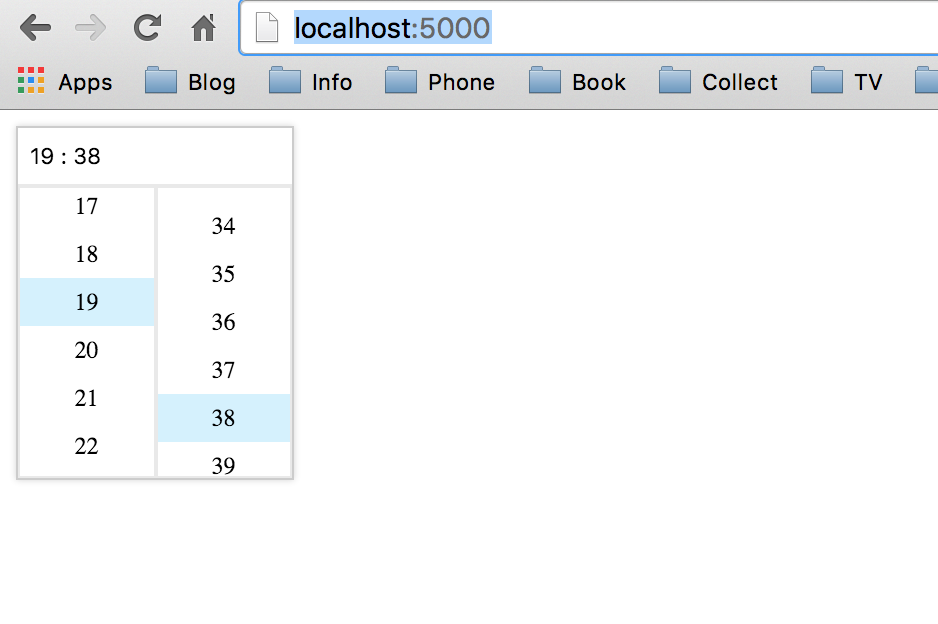
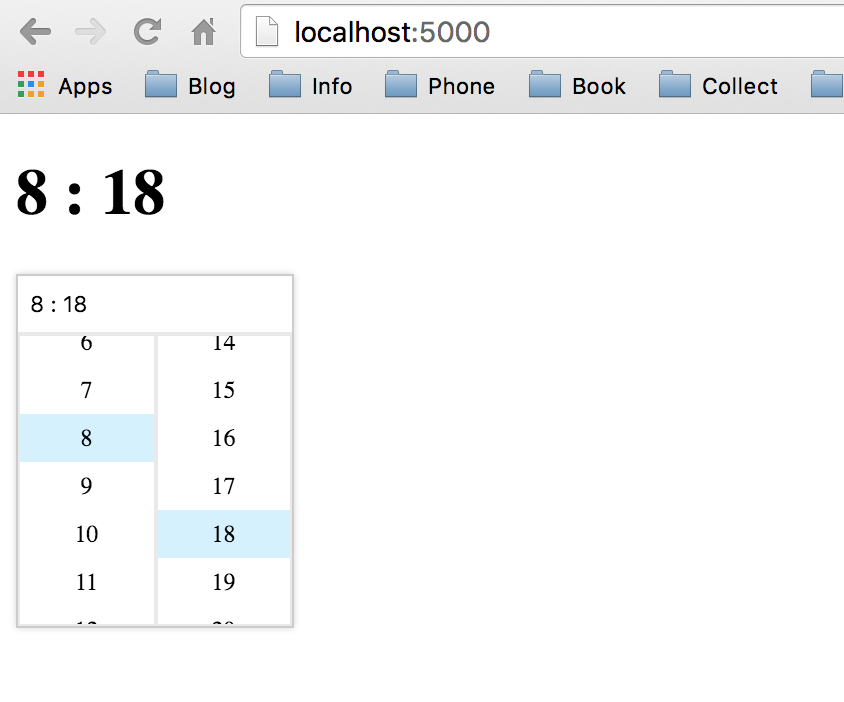
add export value

diff --git a/dist/vue-timepicker.js b/dist/vue-timepicker.js
@@ -1,1 +1,1 @@
-!function(e,t){if("object"==typeof exports&&"object"==typeof module)module.exports=t();else if("function"==typeof define&&define.amd)define([],t);else{var i=t();for(var n in i)("object"==typeof exports?exports:e)[n]=i[n]}}(this,function(){return function(e){function t(n){if(i[n])return i[n].exports;var r=i[n]={exports:{},id:n,loaded:!1};return e[n].call(r.exports,r,r.exports,t),r.loaded=!0,r.exports}var i={};return t.m=e,t.c=i,t.p="",t(0)}([function(e,t,i){var n,r;i(5),n=i(1),r=i(6),e.exports=n||{},e.exports.__esModule&&(e.exports=e.exports["default"]),r&&(("function"==typeof e.exports?e.exports.options||(e.exports.options={}):e.exports).template=r)},function(e,t){"use strict";Object.defineProperty(t,"__esModule",{value:!0}),t["default"]={data:function(){return{isActive:!1,time:"",hour:"",minute:"",hourData:[],minuteData:[]}},methods:{},computed:{time:function(){return this.hour||this.minute?this.hour+" : "+this.minute:""}},created:function(){for(var e=this,t=[],i=[],n=1;24>=n;n++)t.push(n);for(var r=1;60>=r;r++)i.push(r);this.hourData=t,this.minuteData=i,document.addEventListener("click",function(){e.isActive=!1})}}},function(e,t,i){t=e.exports=i(3)(),t.push([e.id,".vue-time-picker-panel[_v-98eb7a12]{display:inline-block}.vue-time-picker-panel-inner[_v-98eb7a12]{position:relative;outline:none;border:1px solid #ccc;font-size:12px;text-align:left;background-color:#fff;box-shadow:0 0 4px rgba(0,0,0,.17)}.vue-time-picker-panel-input-wrap[_v-98eb7a12]{position:relative;padding:6px;border-bottom:1px solid #e9e9e9}.vue-time-picker-panel-input-wrap input[_v-98eb7a12]{outline:none;border:0;margin:0;padding:0;line-height:1.5;width:100%}.vue-time-picker-panel-combobox[_v-98eb7a12]{display:-webkit-box;display:-webkit-flex;display:-ms-flexbox;display:flex}.vue-time-picker-panel-select[_v-98eb7a12]{position:relative;font-size:12px;border:1px solid #e9e9e9;-webkit-box-flex:1;-webkit-flex:1;-ms-flex:1;flex:1;overflow:hidden}.vue-time-picker-panel-select[_v-98eb7a12]:hover{overflow-y:auto}.vue-time-picker-panel-select ul[_v-98eb7a12]{list-style:none;max-height:144px;margin:0;padding:0;box-sizing:border-box}.vue-time-picker-panel-select li[_v-98eb7a12]{margin:0;padding:0;height:24px;line-height:24px;text-align:center;cursor:pointer}.vue-time-picker-panel-select li.selected[_v-98eb7a12]{background-color:#d5f1fd}.vue-time-picker-panel-select li[_v-98eb7a12]:hover{background-color:#eaf8fe}",""])},function(e,t){e.exports=function(){var e=[];return e.toString=function(){for(var e=[],t=0;t<this.length;t++){var i=this[t];i[2]?e.push("@media "+i[2]+"{"+i[1]+"}"):e.push(i[1])}return e.join("")},e.i=function(t,i){"string"==typeof t&&(t=[[null,t,""]]);for(var n={},r=0;r<this.length;r++){var o=this[r][0];"number"==typeof o&&(n[o]=!0)}for(r=0;r<t.length;r++){var a=t[r];"number"==typeof a[0]&&n[a[0]]||(i&&!a[2]?a[2]=i:i&&(a[2]="("+a[2]+") and ("+i+")"),e.push(a))}},e}},function(e,t,i){function n(e,t){for(var i=0;i<e.length;i++){var n=e[i],r=d[n.id];if(r){r.refs++;for(var o=0;o<r.parts.length;o++)r.parts[o](n.parts[o]);for(;o<n.parts.length;o++)r.parts.push(p(n.parts[o],t))}else{for(var a=[],o=0;o<n.parts.length;o++)a.push(p(n.parts[o],t));d[n.id]={id:n.id,refs:1,parts:a}}}}function r(e){for(var t=[],i={},n=0;n<e.length;n++){var r=e[n],o=r[0],a=r[1],s=r[2],l=r[3],p={css:a,media:s,sourceMap:l};i[o]?i[o].parts.push(p):t.push(i[o]={id:o,parts:[p]})}return t}function o(e,t){var i=m(),n=g[g.length-1];if("top"===e.insertAt)n?n.nextSibling?i.insertBefore(t,n.nextSibling):i.appendChild(t):i.insertBefore(t,i.firstChild),g.push(t);else{if("bottom"!==e.insertAt)throw new Error("Invalid value for parameter 'insertAt'. Must be 'top' or 'bottom'.");i.appendChild(t)}}function a(e){e.parentNode.removeChild(e);var t=g.indexOf(e);t>=0&&g.splice(t,1)}function s(e){var t=document.createElement("style");return t.type="text/css",o(e,t),t}function l(e){var t=document.createElement("link");return t.rel="stylesheet",o(e,t),t}function p(e,t){var i,n,r;if(t.singleton){var o=x++;i=b||(b=s(t)),n=u.bind(null,i,o,!1),r=u.bind(null,i,o,!0)}else e.sourceMap&&"function"==typeof URL&&"function"==typeof URL.createObjectURL&&"function"==typeof URL.revokeObjectURL&&"function"==typeof Blob&&"function"==typeof btoa?(i=l(t),n=f.bind(null,i),r=function(){a(i),i.href&&URL.revokeObjectURL(i.href)}):(i=s(t),n=c.bind(null,i),r=function(){a(i)});return n(e),function(t){if(t){if(t.css===e.css&&t.media===e.media&&t.sourceMap===e.sourceMap)return;n(e=t)}else r()}}function u(e,t,i,n){var r=i?"":n.css;if(e.styleSheet)e.styleSheet.cssText=k(t,r);else{var o=document.createTextNode(r),a=e.childNodes;a[t]&&e.removeChild(a[t]),a.length?e.insertBefore(o,a[t]):e.appendChild(o)}}function c(e,t){var i=t.css,n=t.media;if(n&&e.setAttribute("media",n),e.styleSheet)e.styleSheet.cssText=i;else{for(;e.firstChild;)e.removeChild(e.firstChild);e.appendChild(document.createTextNode(i))}}function f(e,t){var i=t.css,n=t.sourceMap;n&&(i+="\n/*# sourceMappingURL=data:application/json;base64,"+btoa(unescape(encodeURIComponent(JSON.stringify(n))))+" */");var r=new Blob([i],{type:"text/css"}),o=e.href;e.href=URL.createObjectURL(r),o&&URL.revokeObjectURL(o)}var d={},v=function(e){var t;return function(){return"undefined"==typeof t&&(t=e.apply(this,arguments)),t}},h=v(function(){return/msie [6-9]\b/.test(window.navigator.userAgent.toLowerCase())}),m=v(function(){return document.head||document.getElementsByTagName("head")[0]}),b=null,x=0,g=[];e.exports=function(e,t){t=t||{},"undefined"==typeof t.singleton&&(t.singleton=h()),"undefined"==typeof t.insertAt&&(t.insertAt="bottom");var i=r(e);return n(i,t),function(e){for(var o=[],a=0;a<i.length;a++){var s=i[a],l=d[s.id];l.refs--,o.push(l)}if(e){var p=r(e);n(p,t)}for(var a=0;a<o.length;a++){var l=o[a];if(0===l.refs){for(var u=0;u<l.parts.length;u++)l.parts[u]();delete d[l.id]}}}};var k=function(){var e=[];return function(t,i){return e[t]=i,e.filter(Boolean).join("\n")}}()},function(e,t,i){var n=i(2);"string"==typeof n&&(n=[[e.id,n,""]]);i(4)(n,{});n.locals&&(e.exports=n.locals)},function(e,t){e.exports='<div @click.stop=@click.stop class=vue-time-picker-panel _v-98eb7a12=""><div class=vue-time-picker-panel-inner _v-98eb7a12=""><div @click="isActive = !isActive" class=vue-time-picker-panel-input-wrap _v-98eb7a12=""><input v-model=time class=vue-time-picker-panel-input _v-98eb7a12=""></div><div v-show=isActive class=vue-time-picker-panel-combobox _v-98eb7a12=""><div class=vue-time-picker-panel-select _v-98eb7a12=""><ul _v-98eb7a12=""><li v-for="item in hourData" @click="hour = item" :class="{\'selected\': item === hour}" v-text=item _v-98eb7a12=""></li></ul></div><div class=vue-time-picker-panel-select _v-98eb7a12=""><ul _v-98eb7a12=""><li v-for="item in minuteData" @click="minute = item" :class="{\'selected\': item === minute}" v-text=item _v-98eb7a12=""></li></ul></div></div></div></div>'}])});
+!function(e,t){if("object"==typeof exports&&"object"==typeof module)module.exports=t();else if("function"==typeof define&&define.amd)define([],t);else{var i=t();for(var n in i)("object"==typeof exports?exports:e)[n]=i[n]}}(this,function(){return function(e){function t(n){if(i[n])return i[n].exports;var r=i[n]={exports:{},id:n,loaded:!1};return e[n].call(r.exports,r,r.exports,t),r.loaded=!0,r.exports}var i={};return t.m=e,t.c=i,t.p="",t(0)}([function(e,t,i){var n,r;i(1),n=i(5),r=i(6),e.exports=n||{},e.exports.__esModule&&(e.exports=e.exports["default"]),r&&(("function"==typeof e.exports?e.exports.options||(e.exports.options={}):e.exports).template=r)},function(e,t,i){var n=i(2);"string"==typeof n&&(n=[[e.id,n,""]]);i(4)(n,{});n.locals&&(e.exports=n.locals)},function(e,t,i){t=e.exports=i(3)(),t.push([e.id,".vue-time-picker-panel[_v-98eb7a12]{display:inline-block}.vue-time-picker-panel-inner[_v-98eb7a12]{position:relative;outline:none;border:1px solid #ccc;font-size:12px;text-align:left;background-color:#fff;box-shadow:0 0 4px rgba(0,0,0,.17)}.vue-time-picker-panel-input-wrap[_v-98eb7a12]{position:relative;padding:6px;border-bottom:1px solid #e9e9e9}.vue-time-picker-panel-input-wrap input[_v-98eb7a12]{outline:none;border:0;margin:0;padding:0;line-height:1.5;width:100%}.vue-time-picker-panel-combobox[_v-98eb7a12]{display:-webkit-box;display:-webkit-flex;display:-ms-flexbox;display:flex}.vue-time-picker-panel-select[_v-98eb7a12]{position:relative;font-size:12px;border:1px solid #e9e9e9;-webkit-box-flex:1;-webkit-flex:1;-ms-flex:1;flex:1;overflow:hidden}.vue-time-picker-panel-select[_v-98eb7a12]:hover{overflow-y:auto}.vue-time-picker-panel-select ul[_v-98eb7a12]{list-style:none;max-height:144px;margin:0;padding:0;box-sizing:border-box}.vue-time-picker-panel-select li[_v-98eb7a12]{margin:0;padding:0;height:24px;line-height:24px;text-align:center;cursor:pointer}.vue-time-picker-panel-select li.selected[_v-98eb7a12]{background-color:#d5f1fd}.vue-time-picker-panel-select li[_v-98eb7a12]:hover{background-color:#eaf8fe}",""])},function(e,t){e.exports=function(){var e=[];return e.toString=function(){for(var e=[],t=0;t<this.length;t++){var i=this[t];i[2]?e.push("@media "+i[2]+"{"+i[1]+"}"):e.push(i[1])}return e.join("")},e.i=function(t,i){"string"==typeof t&&(t=[[null,t,""]]);for(var n={},r=0;r<this.length;r++){var o=this[r][0];"number"==typeof o&&(n[o]=!0)}for(r=0;r<t.length;r++){var a=t[r];"number"==typeof a[0]&&n[a[0]]||(i&&!a[2]?a[2]=i:i&&(a[2]="("+a[2]+") and ("+i+")"),e.push(a))}},e}},function(e,t,i){function n(e,t){for(var i=0;i<e.length;i++){var n=e[i],r=d[n.id];if(r){r.refs++;for(var o=0;o<r.parts.length;o++)r.parts[o](n.parts[o]);for(;o<n.parts.length;o++)r.parts.push(u(n.parts[o],t))}else{for(var a=[],o=0;o<n.parts.length;o++)a.push(u(n.parts[o],t));d[n.id]={id:n.id,refs:1,parts:a}}}}function r(e){for(var t=[],i={},n=0;n<e.length;n++){var r=e[n],o=r[0],a=r[1],s=r[2],l=r[3],u={css:a,media:s,sourceMap:l};i[o]?i[o].parts.push(u):t.push(i[o]={id:o,parts:[u]})}return t}function o(e,t){var i=m(),n=g[g.length-1];if("top"===e.insertAt)n?n.nextSibling?i.insertBefore(t,n.nextSibling):i.appendChild(t):i.insertBefore(t,i.firstChild),g.push(t);else{if("bottom"!==e.insertAt)throw new Error("Invalid value for parameter 'insertAt'. Must be 'top' or 'bottom'.");i.appendChild(t)}}function a(e){e.parentNode.removeChild(e);var t=g.indexOf(e);t>=0&&g.splice(t,1)}function s(e){var t=document.createElement("style");return t.type="text/css",o(e,t),t}function l(e){var t=document.createElement("link");return t.rel="stylesheet",o(e,t),t}function u(e,t){var i,n,r;if(t.singleton){var o=x++;i=b||(b=s(t)),n=p.bind(null,i,o,!1),r=p.bind(null,i,o,!0)}else e.sourceMap&&"function"==typeof URL&&"function"==typeof URL.createObjectURL&&"function"==typeof URL.revokeObjectURL&&"function"==typeof Blob&&"function"==typeof btoa?(i=l(t),n=f.bind(null,i),r=function(){a(i),i.href&&URL.revokeObjectURL(i.href)}):(i=s(t),n=c.bind(null,i),r=function(){a(i)});return n(e),function(t){if(t){if(t.css===e.css&&t.media===e.media&&t.sourceMap===e.sourceMap)return;n(e=t)}else r()}}function p(e,t,i,n){var r=i?"":n.css;if(e.styleSheet)e.styleSheet.cssText=y(t,r);else{var o=document.createTextNode(r),a=e.childNodes;a[t]&&e.removeChild(a[t]),a.length?e.insertBefore(o,a[t]):e.appendChild(o)}}function c(e,t){var i=t.css,n=t.media;if(n&&e.setAttribute("media",n),e.styleSheet)e.styleSheet.cssText=i;else{for(;e.firstChild;)e.removeChild(e.firstChild);e.appendChild(document.createTextNode(i))}}function f(e,t){var i=t.css,n=t.sourceMap;n&&(i+="\n/*# sourceMappingURL=data:application/json;base64,"+btoa(unescape(encodeURIComponent(JSON.stringify(n))))+" */");var r=new Blob([i],{type:"text/css"}),o=e.href;e.href=URL.createObjectURL(r),o&&URL.revokeObjectURL(o)}var d={},v=function(e){var t;return function(){return"undefined"==typeof t&&(t=e.apply(this,arguments)),t}},h=v(function(){return/msie [6-9]\b/.test(window.navigator.userAgent.toLowerCase())}),m=v(function(){return document.head||document.getElementsByTagName("head")[0]}),b=null,x=0,g=[];e.exports=function(e,t){t=t||{},"undefined"==typeof t.singleton&&(t.singleton=h()),"undefined"==typeof t.insertAt&&(t.insertAt="bottom");var i=r(e);return n(i,t),function(e){for(var o=[],a=0;a<i.length;a++){var s=i[a],l=d[s.id];l.refs--,o.push(l)}if(e){var u=r(e);n(u,t)}for(var a=0;a<o.length;a++){var l=o[a];if(0===l.refs){for(var p=0;p<l.parts.length;p++)l.parts[p]();delete d[l.id]}}}};var y=function(){var e=[];return function(t,i){return e[t]=i,e.filter(Boolean).join("\n")}}()},function(e,t){"use strict";function i(e,t){for(var i=[],n=e;t>=n;n++)i.push(n);return i}Object.defineProperty(t,"__esModule",{value:!0}),t["default"]={props:{time:String,twoWay:!0},data:function(){return{isActive:!1,hour:"",minute:"",hourData:[],minuteData:[]}},methods:{},computed:{time:function(){return this.hour||this.minute?this.hour+" : "+this.minute:""}},created:function(){var e=this;this.hourData=i(1,24),this.minuteData=i(1,60),document.addEventListener("click",function(){e.isActive=!1})}}},function(e,t){e.exports='<div @click.stop="" class=vue-time-picker-panel _v-98eb7a12=""><div class=vue-time-picker-panel-inner _v-98eb7a12=""><div @click="isActive = !isActive" class=vue-time-picker-panel-input-wrap _v-98eb7a12=""><input v-model=time class=vue-time-picker-panel-input _v-98eb7a12=""></div><div v-show=isActive class=vue-time-picker-panel-combobox _v-98eb7a12=""><div class=vue-time-picker-panel-select _v-98eb7a12=""><ul _v-98eb7a12=""><li v-for="item in hourData" @click="hour = item" :class="{\'selected\': item === hour}" v-text=item _v-98eb7a12=""></li></ul></div><div class=vue-time-picker-panel-select _v-98eb7a12=""><ul _v-98eb7a12=""><li v-for="item in minuteData" @click="minute = item" :class="{\'selected\': item === minute}" v-text=item _v-98eb7a12=""></li></ul></div></div></div></div>'}])});

diff --git a/src/index.vue b/src/index.vue
@@ -1,5 +1,5 @@
 <template lang="jade">
-  div.vue-time-picker-panel(@click.stop)
+  div.vue-time-picker-panel(@click.stop='')
     div.vue-time-picker-panel-inner
       div.vue-time-picker-panel-input-wrap(@click='isActive = !isActive')
         input.vue-time-picker-panel-input(v-model='time')
@@ -21,11 +21,25 @@
 </template>
 
 <script>
+function range(start, end) {
+  let result = []
+
+  for (let i = start; i <= end; i++) {
+    result.push(i)
+  }
+
+  return result
+}
+
 export default {
+  props: {
+    time: String,
+    twoWay: true
+    // required: true
+  },
   data() {
     return {
       isActive: false,
-      time: '',
       hour: '',
       minute: '',
       hourData: [],
@@ -44,19 +58,8 @@ export default {
     }
   },
   created() {
-    let tempHour = []
-    let tempMinute = []
-
-    for (let i=1; i<=24; i++) {
-      tempHour.push(i)
-    }
-
-    for (let i=1; i<=60; i++) {
-      tempMinute.push(i)
-    }
-
-    this.hourData = tempHour
-    this.minuteData = tempMinute
+    this.hourData = range(1, 24)
+    this.minuteData = range(1, 60)
 
     document.addEventListener('click', () => {
       this.isActive = false;

diff --git a/webpack.config.prod.js b/webpack.config.prod.js
@@ -1,4 +1,5 @@
 var path = require('path')
+var webpack = require('webpack')
 
 module.exports = {
   entry: './src/index.vue',
@@ -15,6 +16,13 @@ module.exports = {
       }
     ]
   },
+  plugins: [
+    new webpack.optimize.UglifyJsPlugin({
+      compress: {
+        warnings: false
+      }
+    })
+  ],
   vue: {
     loaders: {
       scss: 'style!css!sass',

diff --git a/example/index.html b/example/index.html
@@ -6,7 +6,8 @@
 </head>
 <body>
   <div id="app">
-    <time-picker></time-picker>
+    <h1>{{ myTime }}</h1>
+    <time-picker :time.sync="myTime"></time-picker>
   </div>
   <script src="./build.js"></script>
 </body>

diff --git a/example/index.js b/example/index.js
@@ -4,7 +4,7 @@ var TimePicker = require('../src/index.vue')
 new Vue({
   el: '#app',
   data: {
-    a: 1
+    myTime: ''
   },
   components: {
     TimePicker: TimePicker

diff --git a/README.md b/README.md
@@ -22,7 +22,9 @@ import TimePicker from 'vue-timepicker'
 
 new Vue({
   el: '#app',
-
+  data: {
+    myTime: ''
+  },
   components: {
     TimePicker: TimePicker
   }
@@ -31,8 +33,8 @@ new Vue({
 
 ```html
 <div id="app">
-  <time-picker></time-picker>
-</div>
+  <h1>{{ myTime }}</h1>
+  <time-picker :time.sync="myTime"></time-picker>
 ```
 
 # Development
